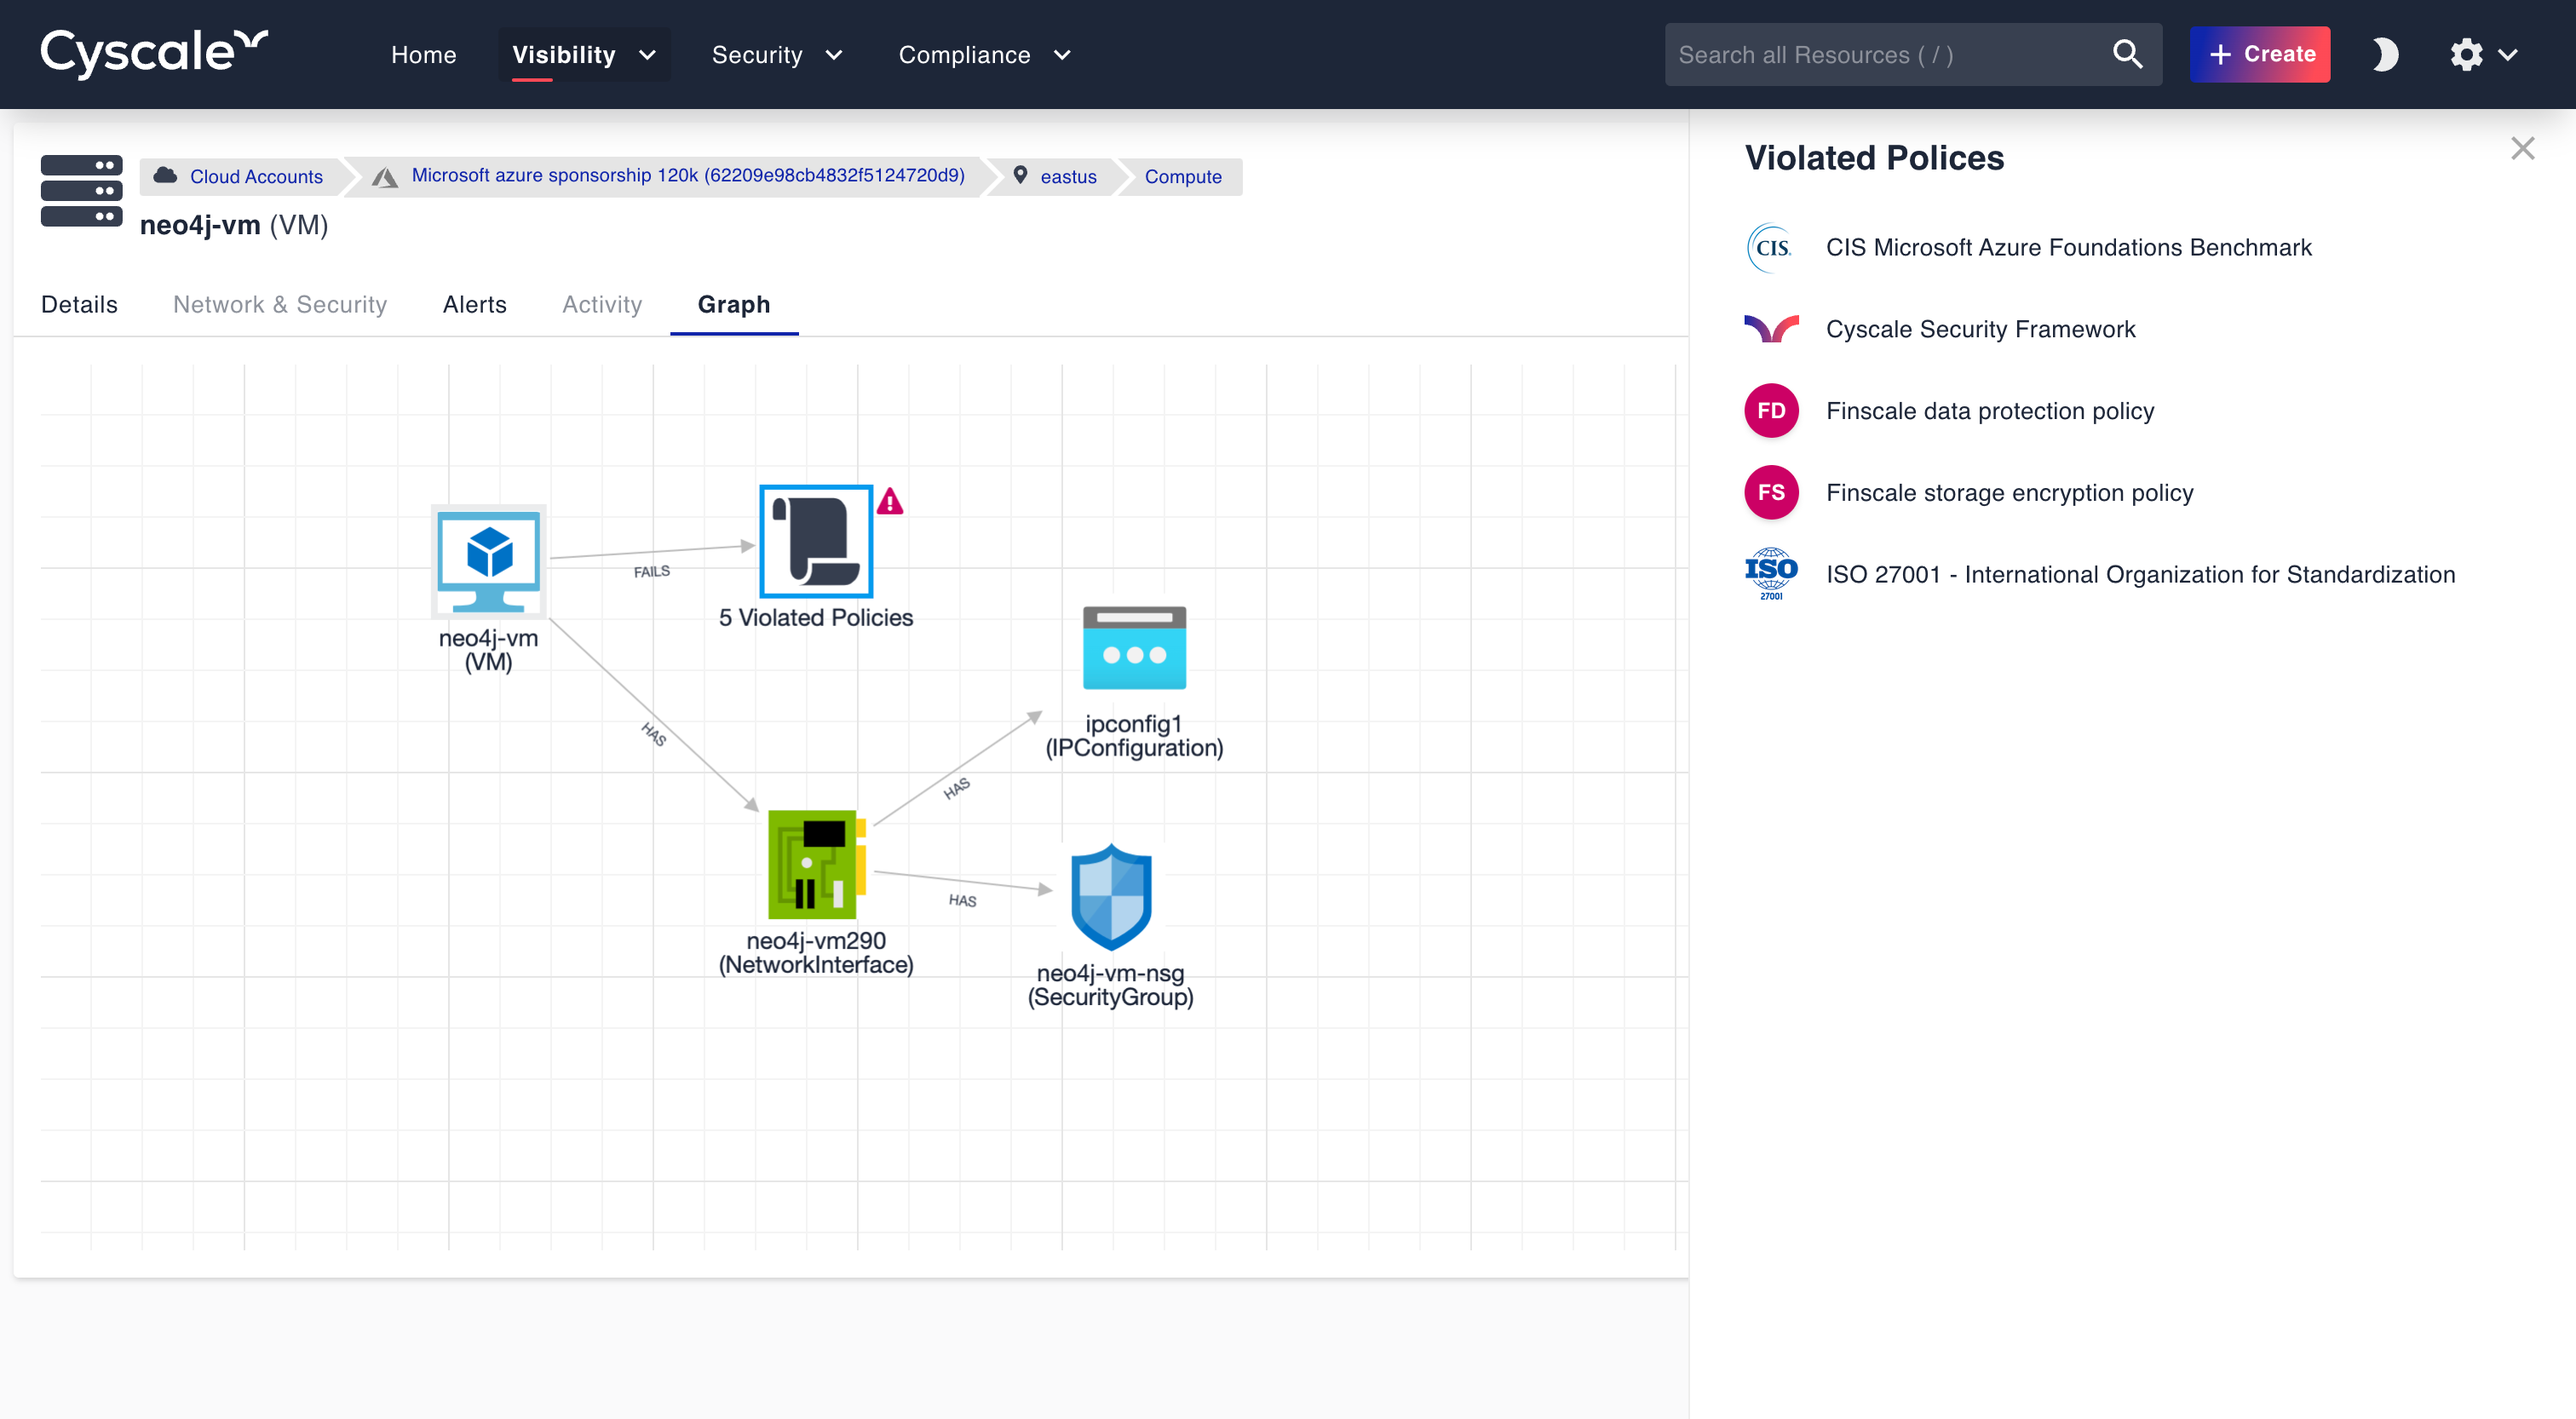
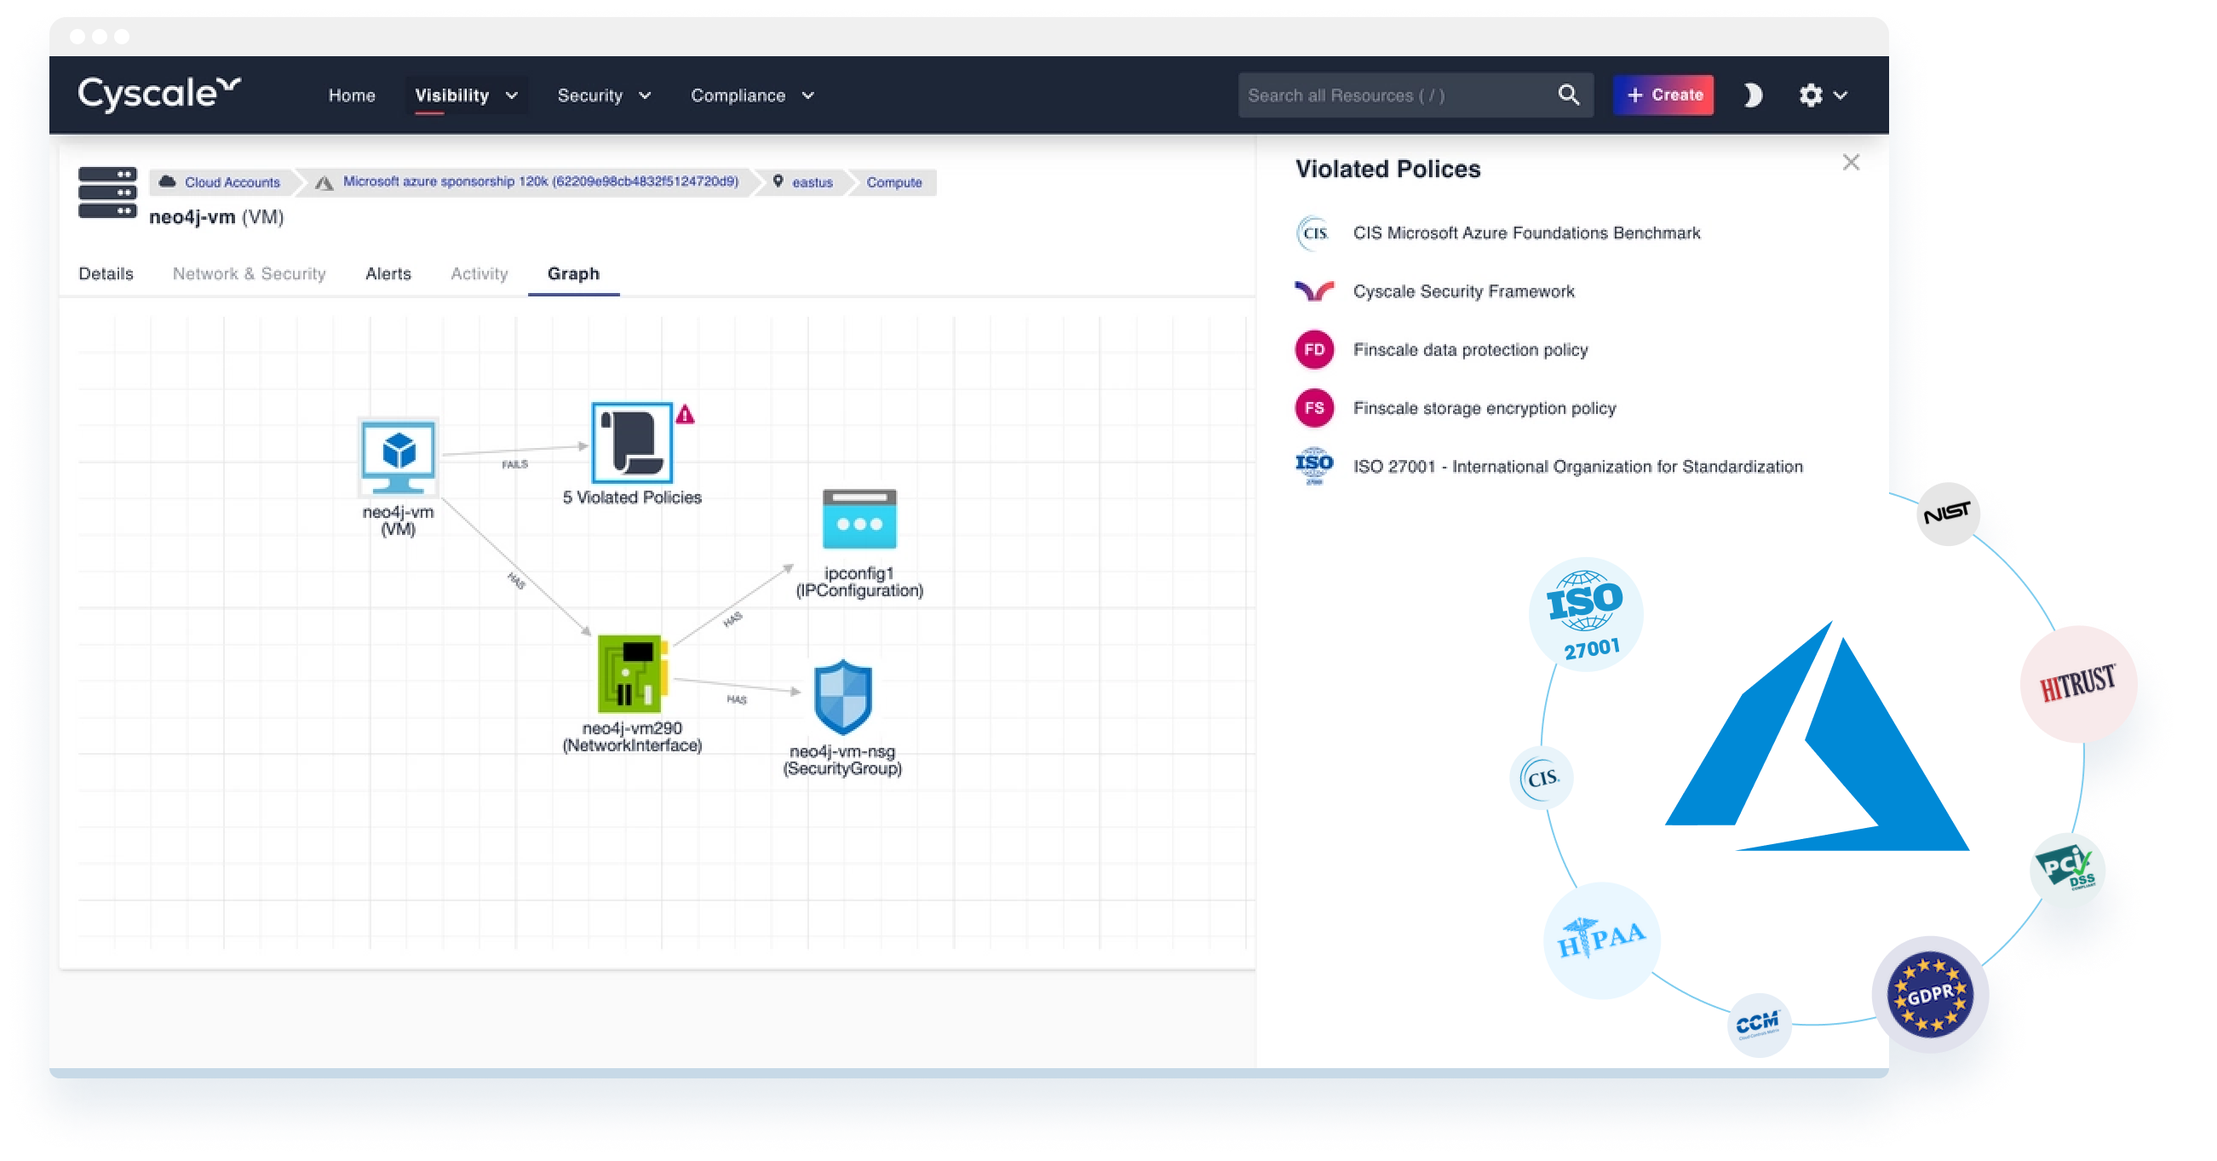
feat: update images for new usecase pages

diff --git a/src/pages/use-cases/azure-cloud-security.js b/src/pages/use-cases/azure-cloud-security.js
@@ -16,16 +16,16 @@ const AzureCloudSecurity = ({ location }) => {
                     gatsbyImageData(width: 1080, layout: CONSTRAINED)
                 }
             }
-            automateCompliance: file(
-                relativePath: { eq: "automate-compliance-as-code-iac-continuous-assessment.png" }
-            ) {
+            azureGraph: file(relativePath: { eq: "azure-graph.png" }) {
                 childImageSharp {
                     gatsbyImageData(width: 1080, layout: CONSTRAINED)
                 }
             }
-            azureGraph: file(relativePath: { eq: "azure-graph.png" }) {
+            automateCompliance: file(
+                relativePath: { eq: "azure-cloud-overview.png" }
+            ) {
                 childImageSharp {
-                    gatsbyImageData(width: 1080, layout: CONSTRAINED)
+                    gatsbyImageData(width: 1920, layout: CONSTRAINED)
                 }
             }
         }
@@ -72,16 +72,16 @@ const AzureCloudSecurity = ({ location }) => {
             <Container>
                 <Section id='start'>
                     <Row>
-                        <div className='col-span-12 lg:col-span-5'>
-                            <div className='mx-auto max-w-xl'>
+                        <div className='col-span-12 lg:col-span-6'>
+                            <div className='mx-auto max-w-xl lg:max-w-lg'>
                                 <h2 className='text-2xl mb-4 lg:mb-0 lg:text-4xl font-normal leading-normal mt-8'>
                                     <strong>Streamline posture management for Azure</strong>
                                     <br /> or your multi-cloud environments environments
                                 </h2>
                             </div>
                         </div>
-                        <div className='col-span-12 lg:col-span-7'>
-                            <div className='mx-auto max-w-xl ml-auto shadow-sm'>
+                        <div className='col-span-12 lg:col-span-6'>
+                            <div className='mx-auto max-w-xl ml-auto'>
                                 <GatsbyImage image={data.azureGraph.childImageSharp.gatsbyImageData} />
                             </div>
                         </div>

diff --git a/src/pages/use-cases/aws-cloud-security.js b/src/pages/use-cases/aws-cloud-security.js
@@ -17,10 +17,10 @@ const AWSCloudSecurity = ({ location }) => {
                 }
             }
             automateCompliance: file(
-                relativePath: { eq: "automate-compliance-as-code-iac-continuous-assessment.png" }
+                relativePath: { eq: "aws-cloud-overview.png" }
             ) {
                 childImageSharp {
-                    gatsbyImageData(width: 1080, layout: CONSTRAINED)
+                    gatsbyImageData(width: 1920, layout: CONSTRAINED)
                 }
             }
         }
@@ -67,7 +67,7 @@ const AWSCloudSecurity = ({ location }) => {
                 <Section id='start'>
                     <Row>
                         <div className='col-span-12 lg:col-span-6'>
-                            <div className='mx-auto max-w-xl lg:mx-0 lg:max-w-lg'>
+                            <div className='mx-auto max-w-xl lg:mx-0 lg:max-w-xl'>
                                 <GatsbyImage image={data.dashboard.childImageSharp.gatsbyImageData} />
                             </div>
                         </div>

diff --git a/gatsby-config.js b/gatsby-config.js
@@ -96,7 +96,7 @@ module.exports = {
             resolve: `gatsby-plugin-sharp`,
             options: {
                 defaults: {
-                    quality: 99,
+                    quality: 100,
                     placeholder: `none`
                 }
             }
